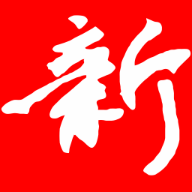
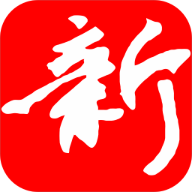
pwa化

Changed region(s): [[0.0, 0.0, 1.0, 1.0]]

diff --git a/vite.config.ts b/vite.config.ts
@@ -4,6 +4,21 @@ import tsconfigPaths from 'vite-tsconfig-paths'
 import svgr from 'vite-plugin-svgr'
 import { VitePWA } from 'vite-plugin-pwa'
 
+import fs from 'fs'
+import path from 'path'
+import { version } from './package.json'
+
+// 读取 public/resources 目录下的所有 JSON 文件
+const resourcesDir = path.join(__dirname, 'public/resources')
+const jsonFiles = fs
+  .readdirSync(resourcesDir)
+  .filter(file => file.endsWith('.json'))
+  .map(file => ({
+    url: `resources/${file}`,
+    revision: version,
+  }))
+const base = process.env.NODE_ENV === 'gh' ? '/ljk-nt-bible-webapp/' : '/'
+
 // console.log(process.env.NODE_ENV)
 
 // https://vitejs.dev/config/
@@ -14,28 +29,67 @@ export default defineConfig({
     svgr(),
     VitePWA({
       registerType: 'autoUpdate',
-      includeAssets: ['favicon.ico', 'apple-touch-icon.png', 'masked-icon.svg'],
+      includeAssets: [
+        'favicon.ico',
+        'apple-touch-icon.png',
+        'masked-icon.svg',
+        'web-app-manifest-192x192.png', // 更新这里
+        'web-app-manifest-512x512.png', // 假设 512x512 的图标也使用相同的命名模式
+      ],
       manifest: {
         name: '新约圣经梁家铿译本',
-        short_name: '梁译本',
+        short_name: '新约梁译本',
         description: '新约圣经梁家铿译本',
         theme_color: '#ffffff',
+        background_color: '#ffffff',
+        display: 'standalone',
+        start_url: base,
+        scope: base,
         icons: [
           {
-            src: 'pwa-192x192.png',
+            src: 'favicon.ico',
+            sizes: '64x64 32x32 24x24 16x16',
+            type: 'image/x-icon',
+          },
+          {
+            src: 'web-app-manifest-192x192.png', // 更新这里
             sizes: '192x192',
             type: 'image/png',
           },
           {
-            src: 'pwa-512x512.png',
+            src: 'web-app-manifest-512x512.png', // 更新这里
             sizes: '512x512',
             type: 'image/png',
           },
         ],
       },
+      workbox: {
+        globPatterns: [
+          '**/*.{js,css,html,ico,png,svg}',
+          'resources/**/*.json', // 添加对 resources 目录下 json 文件的缓存
+        ],
+        runtimeCaching: [
+          {
+            urlPattern: ({ url }) => {
+              const base =
+                process.env.NODE_ENV === 'gh' ? '/ljk-nt-bible-webapp' : ''
+              return url.pathname.startsWith(`${base}/resources/`)
+            },
+            handler: 'NetworkFirst', // 优先使用缓存
+            options: {
+              cacheName: 'static-resources',
+              expiration: {
+                maxEntries: 100, // 最多缓存100个文件
+                maxAgeSeconds: 30 * 24 * 60 * 60, // 缓存30天
+              },
+            },
+          },
+        ],
+        additionalManifestEntries: jsonFiles,
+      },
     }),
   ],
-  base: process.env.NODE_ENV === 'gh' ? '/ljk-nt-bible-webapp/' : '/',
+  base,
   server: {
     open: true,
     port: 3000,

diff --git a/src/components/ResponsiveMenu.tsx b/src/components/ResponsiveMenu.tsx
@@ -30,7 +30,7 @@ import {
   useT,
   useUiSizeClassName,
 } from '@/features/settings/settingsSlice'
-import { useLocation, useMatch, useNavigate } from 'react-router-dom'
+import { Link, useLocation, useMatch, useNavigate } from 'react-router-dom'
 import Logo from '@/logo-bible.svg?react'
 import { RiArchiveDrawerLine } from 'react-icons/ri'
 import { MdOutlineInfo } from 'react-icons/md'
@@ -128,7 +128,9 @@ const ResponsiveMenu = () => {
         // hideBelow={'maxContent'}
       >
         <Box>
-          <Logo height={'36px'} viewBox="5 0 199 46" />
+          <Link to="/">
+            <Logo height={'36px'} viewBox="5 0 199 46" />
+          </Link>
         </Box>
         <HStack paddingRight={'1.2rem'}>
           {settingButton}
@@ -206,7 +208,9 @@ const ResponsiveMenu = () => {
 
   const menu = (
     <HStack paddingLeft={'0.2rem'}>
-      <Logo height={'36px'} width={'174px'} viewBox="0 0 199 46" />
+      <Link to="/">
+        <Logo height={'36px'} width={'174px'} viewBox="0 0 199 46" />
+      </Link>
       <MenuItem>
         <IconButton
           colorScheme={useColorPalette()}

diff --git a/src/features/settings/settingsSlice.ts b/src/features/settings/settingsSlice.ts
@@ -193,3 +193,24 @@ export const getUiSizeClassName = (
 
   return sizes[enlargedIndex > maxIndex ? maxIndex : enlargedIndex]
 }
+
+export const colorPaletteToHex = {
+  gray: '#71717a',
+  red: '#ef4444',
+  orange: '#f97316',
+  yellow: '#eab308',
+  green: '#22c55e',
+  teal: '#14b8a6',
+  blue: '#3b82f6',
+  cyan: '#06b6d4',
+  purple: '#a855f7',
+  pink: '#ec4899',
+} as const
+
+export const updateThemeColor = (color: ColorPaletteType) => {
+  const colorHex = colorPaletteToHex[color] || '#ffffff'
+  const metaThemeColor = document.querySelector('meta[name="theme-color"]')
+  if (metaThemeColor) {
+    metaThemeColor.setAttribute('content', colorHex)
+  }
+}

diff --git a/src/App.tsx b/src/App.tsx
@@ -16,11 +16,22 @@ import InfoLayout from './pages/InfoLayout'
 import Preface from './pages/Preface'
 import Bibliography from './pages/Bibliography'
 import Logs from './pages/Logs'
+import {
+  updateThemeColor,
+  useColorPalette,
+} from './features/settings/settingsSlice'
+import { useEffect } from 'react'
 
 const App = () => {
   let location = useLocation()
 
   let state = location.state as { backgroundLocation?: Location }
+
+  const colorPalette = useColorPalette()
+
+  useEffect(() => {
+    updateThemeColor(colorPalette)
+  }, [colorPalette])
 
   return (
     <div className="App">
